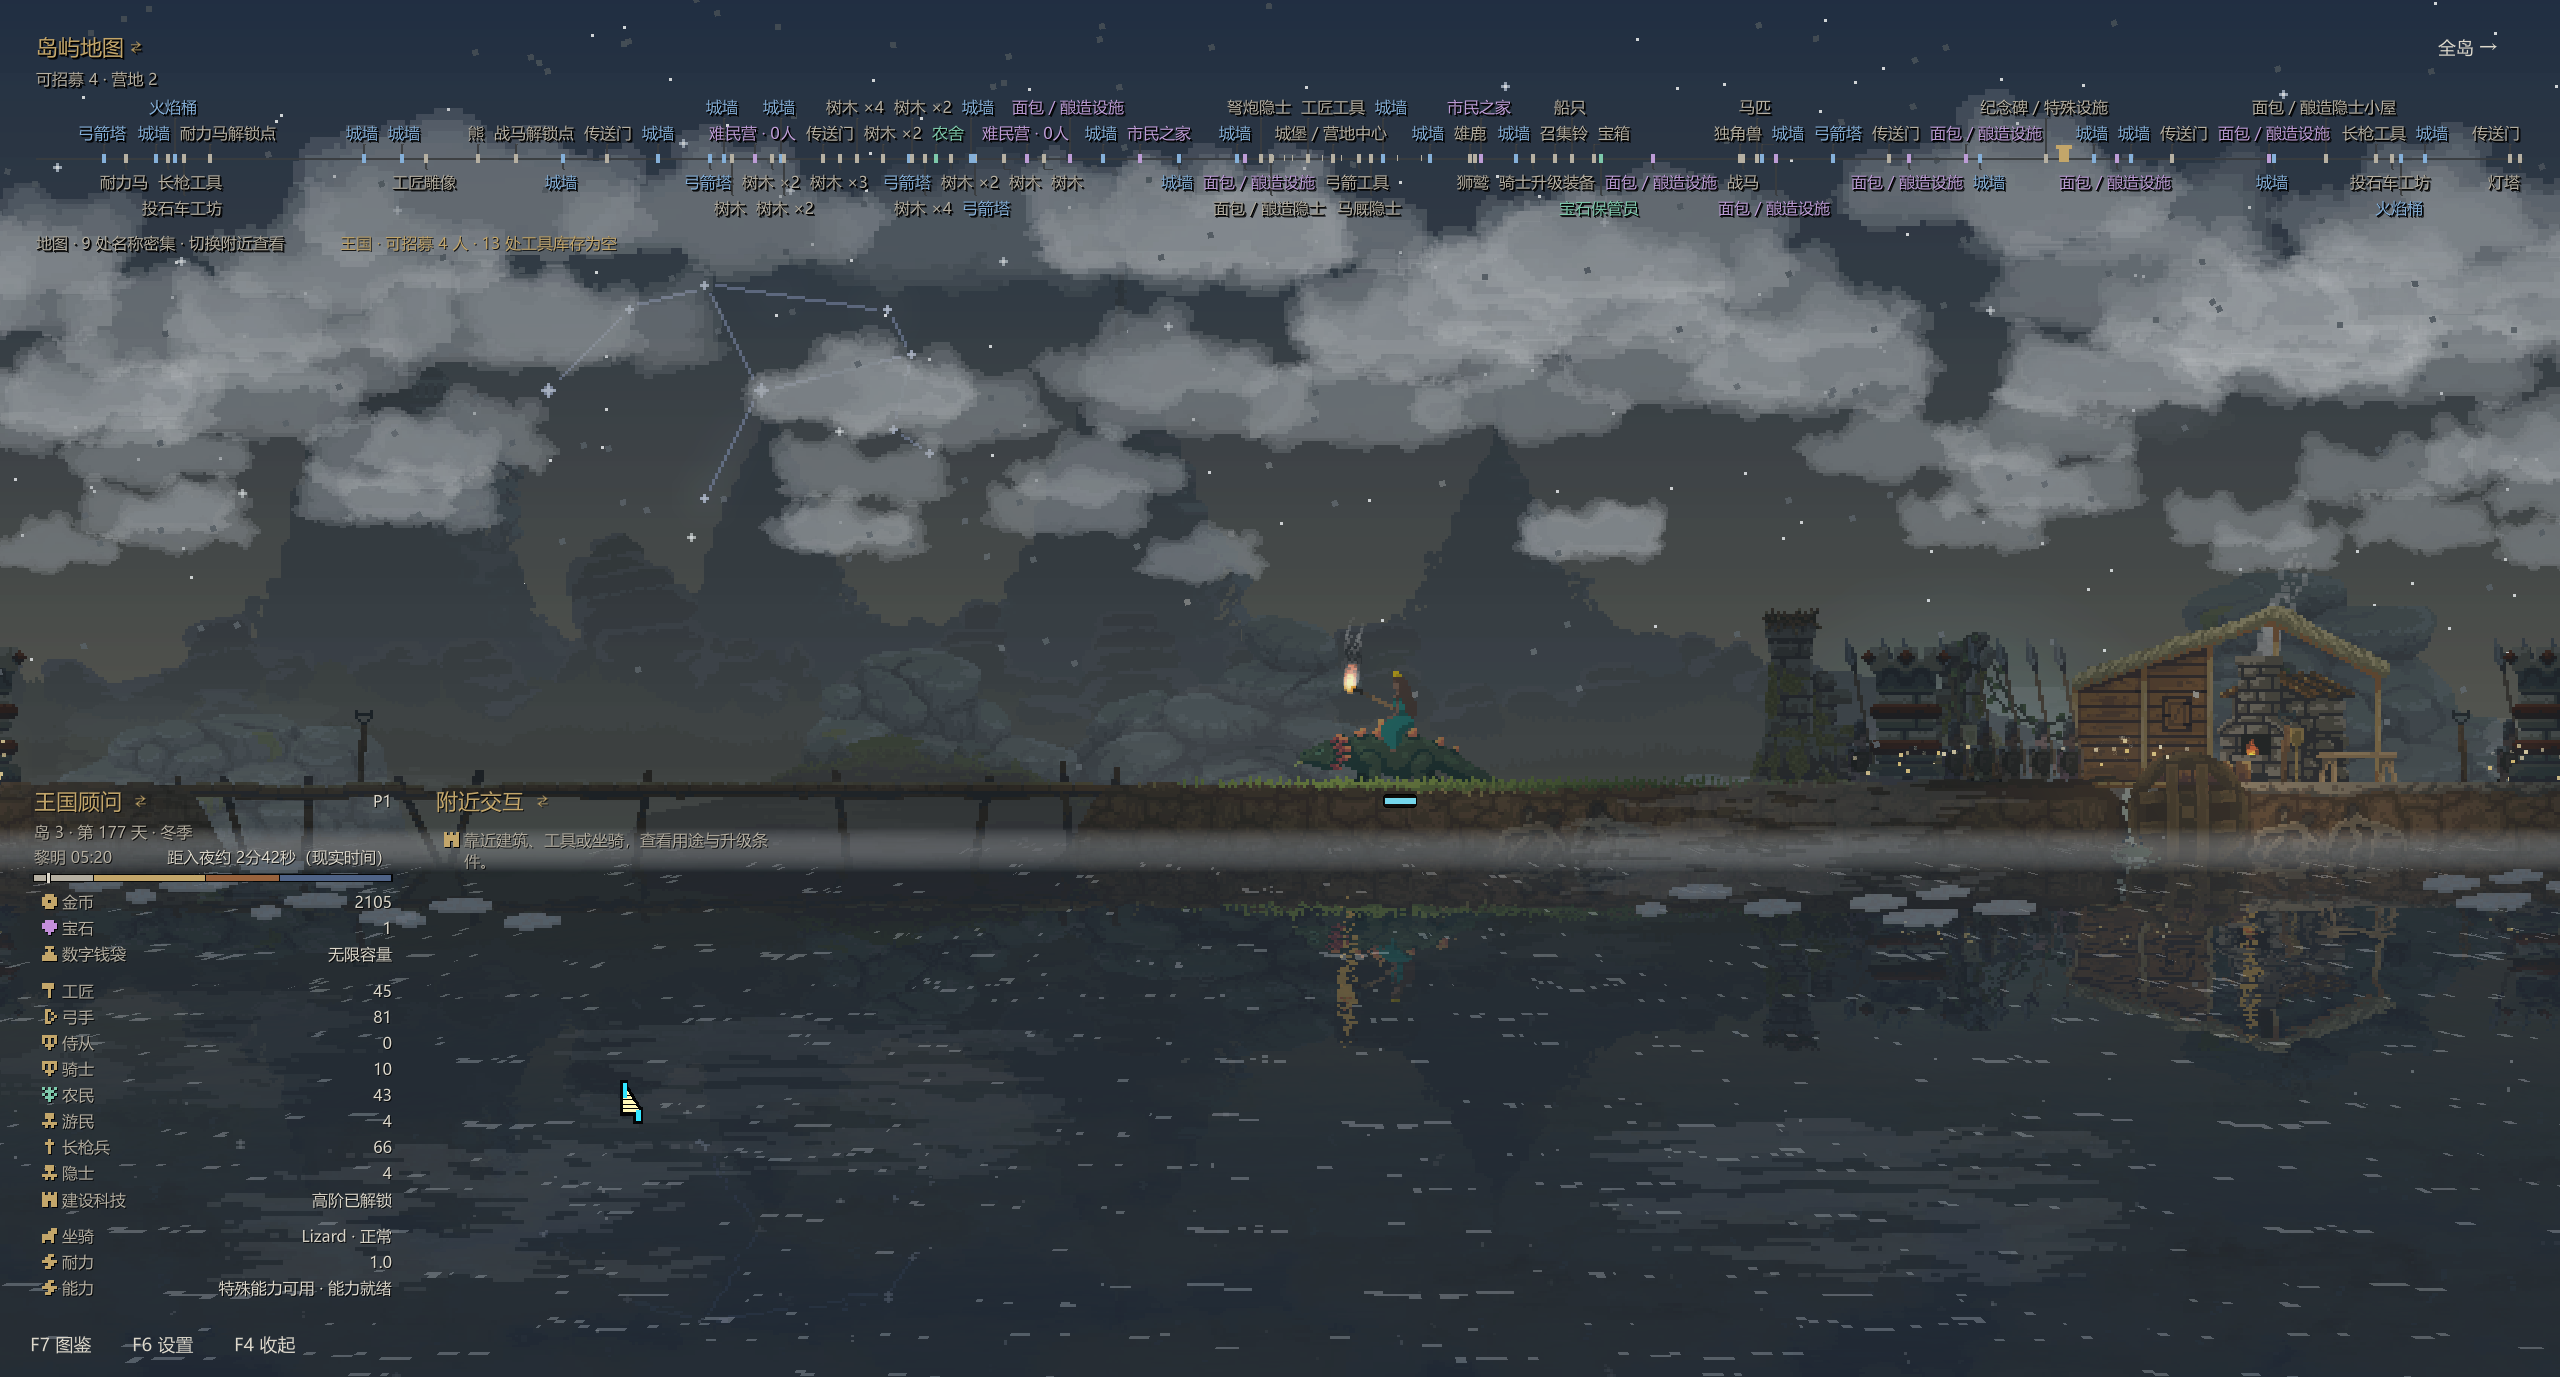
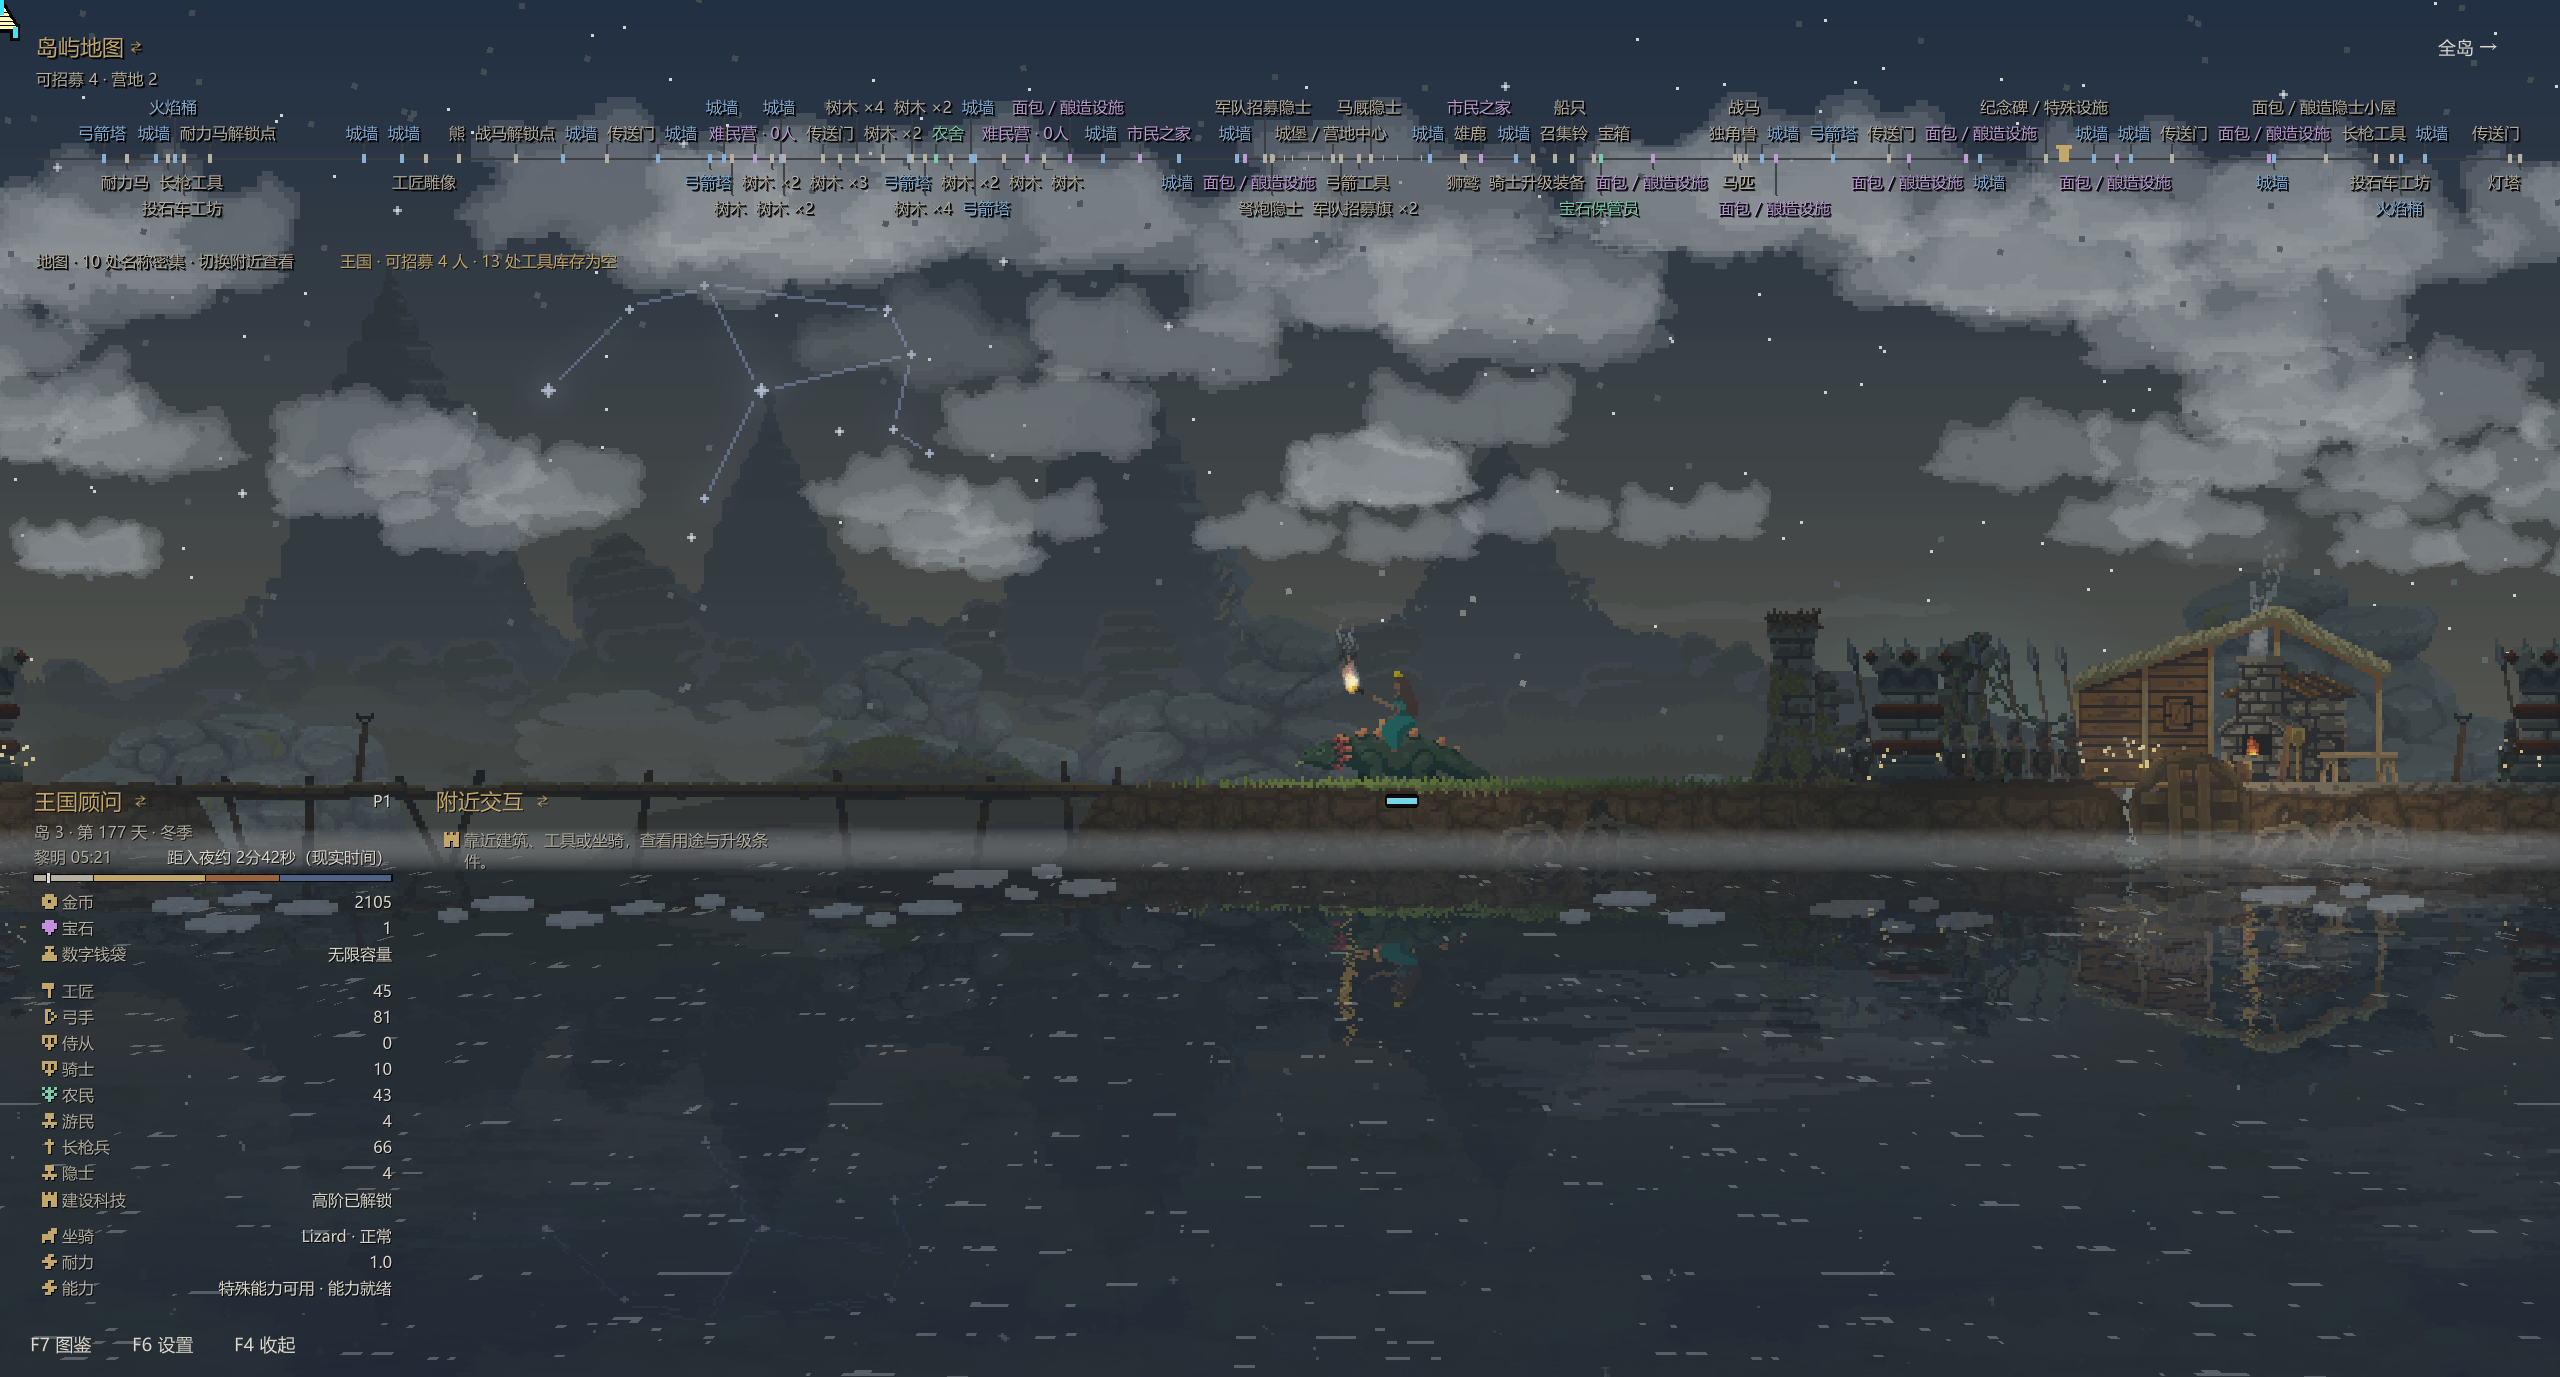
Keep balanced spacing below map contents

diff --git a/src/HudTextLayout.cs b/src/HudTextLayout.cs
@@ -37,7 +37,7 @@ namespace KingdomAdvisor
             float tipWidth=beside?Math.Min(innerWidth-alertWidth-gap,Math.Max(260,tipPreferredWidth)):innerWidth;
             float tipHeight=height(tip,tipWidth),alertHeight=alert.Length==0?0:height(alert,Math.Min(alertWidth,innerWidth)-32)+padding*2;
             // 以实际绘制内容为锚点，不为空敌群行预留整块高度；测量替身未提供时使用最小内容基线。
-            float top=(float.IsNaN(contentBottom)?area.Y+78+2*(lineHeight+5)+18:contentBottom)+14;
+            float top=(float.IsNaN(contentBottom)?area.Y+78+2*(lineHeight+5)+18:contentBottom)+32;
             var tipRect=new HudRect(area.X+18,top,tipWidth,tipHeight);
             var alertRect=new HudRect(beside?tipRect.Right+gap-16:area.X+2,beside?top-padding:tipRect.Bottom+8,Math.Min(alertWidth,innerWidth),alertHeight);
             return (tipRect,alertRect);

diff --git a/docs/specs/hold-to-purchase.md b/docs/specs/hold-to-purchase.md
@@ -14,6 +14,8 @@
 
[1 lines of base64/hex data omitted]
 
+用户认为 14 像素仍偏紧，最终改为 32 像素适中间距；只调整地图内容与提示行之间的留白，组间距和顾问行距不变。回归先在 14 像素实现上失败，再调整为 32 后通过。最终制品哈希以根目录 `release-acceptance.json` 为准。
+
 ## 0.6.14 正式发布（2026-11-13）
 
 用户已明确授权发布 Mod 到 Nexus，并补充要求同步 GitHub；不发送评论。此授权替代下文历史阶段“只本地安装、不提交或发布”的范围限制。0.6.14 与最终 rc.11 的运行代码仅版本标记不同，保留全部配置与存档。此前 1–6 项由用户确认验收；rc.11 布局的自动及代理实机证据见下文，不将发布授权写成新增的人工观感验收。发布验证见 `docs/acceptance/evidence/release-0614/` 与根目录 `release-acceptance.json`。
